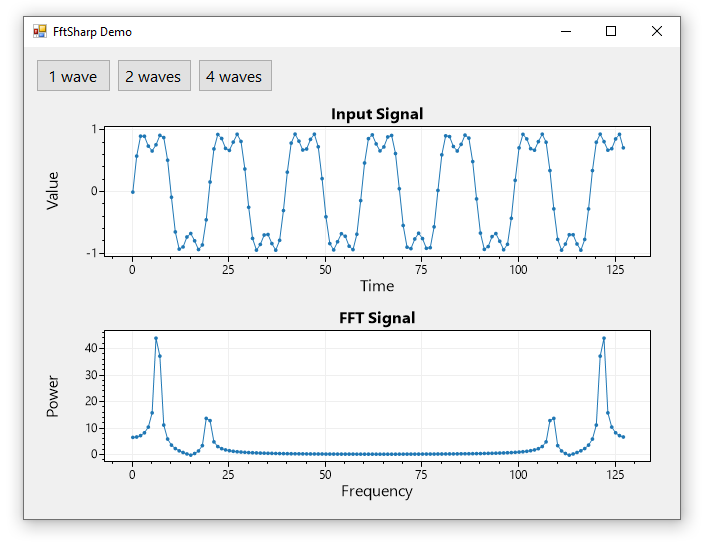
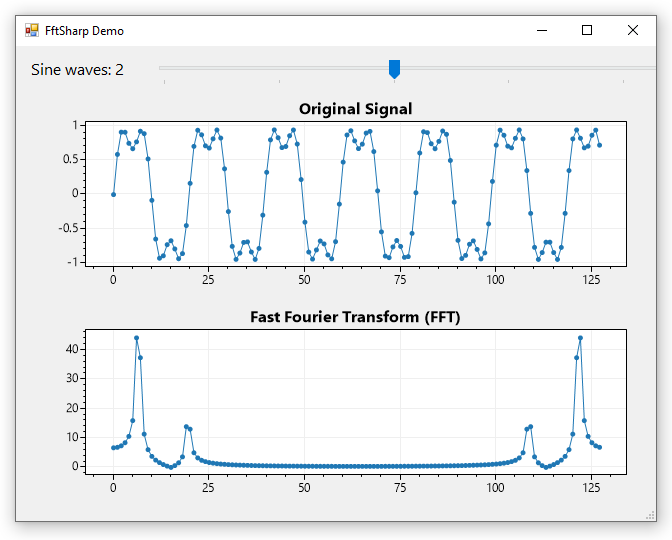
update demo

diff --git a/src/FftSharp.Demo/FormQuickstart.cs b/src/FftSharp.Demo/FormQuickstart.cs
@@ -10,30 +10,7 @@ namespace FftSharp.Demo
         public FormQuickstart()
         {
             InitializeComponent();
-
-            formsPlot1.plt.Title("Input Signal");
-            formsPlot1.plt.YLabel("Value");
-            formsPlot1.plt.XLabel("Time");
-
-            formsPlot2.plt.Title("FFT Signal");
-            formsPlot2.plt.YLabel("Power");
-            formsPlot2.plt.XLabel("Frequency");
-
             trackBar1_Scroll(null, null);
-        }
-
-        private void UpdateFFT(double[] input)
-        {
-            formsPlot1.plt.Clear();
-            formsPlot1.plt.PlotSignal(input, markerSize: 10);
-            formsPlot1.Render();
-
-            Complex[] fft = FftSharp.Transform.FFT(input);
-            double[] fftMag = FftSharp.Convert.GetMagnitude(fft);
-
-            formsPlot2.plt.Clear();
-            formsPlot2.plt.PlotSignal(fftMag, markerSize: 10);
-            formsPlot2.Render();
         }
 
         private void trackBar1_Scroll(object sender, EventArgs e)
@@ -41,6 +18,30 @@ namespace FftSharp.Demo
             label1.Text = $"Sine waves: {trackBar1.Value}";
             double[] values = FftSharp.SampleData.OddSines(128, trackBar1.Value);
             UpdateFFT(values);
+        }
+
+        private void UpdateFFT(double[] input)
+        {
+            // calculate FFT
+            double[] fft = FftSharp.Transform.FFTmagnitude(input, half: false);
+
+            // prepare array of indexes for plotting
+
+            // plot the input signal
+            formsPlot1.plt.Clear();
+            formsPlot1.plt.PlotScatter(
+                xs: ScottPlot.DataGen.Consecutive(input.Length),
+                ys: input);
+            formsPlot1.plt.Title("Original Signal");
+            formsPlot1.Render();
+
+            // plot the FFT
+            formsPlot2.plt.Clear();
+            formsPlot2.plt.PlotScatter(
+                xs: ScottPlot.DataGen.Consecutive(fft.Length),
+                ys: fft);
+            formsPlot2.plt.Title("Fast Fourier Transform (FFT)");
+            formsPlot2.Render();
         }
     }
 }

diff --git a/src/FftSharp.Demo/FormAudio.cs b/src/FftSharp.Demo/FormAudio.cs
@@ -29,28 +29,29 @@ namespace FftSharp.Demo
             // create noisy signal containing sine waves
             double[] data = new double[fftSize];
             data = FftSharp.SampleData.AddWhiteNoise(data, 1);
-            data = FftSharp.SampleData.AddSin(data, sampleRate, 500, 1);
-            data = FftSharp.SampleData.AddSin(data, sampleRate, 1200, .5);
-            data = FftSharp.SampleData.AddSin(data, sampleRate, 1500, 2);
+            data = FftSharp.SampleData.AddSin(data, sampleRate, 2_000, 1);
+            data = FftSharp.SampleData.AddSin(data, sampleRate, 10_000, 2);
+            data = FftSharp.SampleData.AddSin(data, sampleRate, 20_000, .5);
 
             // perform the FFT
-            Complex[] fft = FftSharp.Transform.FFT(data);
-            double[] fftPower = FftSharp.Convert.ToDecibelPower(fft);
-            
+            double[] fftAmp = FftSharp.Transform.FFTamplitude(data);
+
             // plot the signal
             formsPlot1.plt.Clear();
             formsPlot1.plt.PlotSignal(data, sampleRate / 1e3);
             formsPlot1.plt.Title("Input Signal");
-            formsPlot1.plt.YLabel("Value");
+            formsPlot1.plt.YLabel("Amplitude");
             formsPlot1.plt.XLabel("Time (milliseconds)");
+            formsPlot1.plt.AxisAuto(0);
             formsPlot1.Render();
 
             // plot the FFT
             formsPlot2.plt.Clear();
-            formsPlot2.plt.PlotSignal(fftPower, fftPeriod);
+            formsPlot2.plt.PlotSignal(fftAmp, fftPeriod);
             formsPlot2.plt.Title("FFT Signal");
-            formsPlot2.plt.YLabel("Power (dB)");
+            formsPlot2.plt.YLabel("Amplitude (dB)");
             formsPlot2.plt.XLabel("Frequency (Hz)");
+            formsPlot2.plt.AxisAuto(0);
             formsPlot2.Render();
         }
     }

diff --git a/src/FftSharp/Transform.cs b/src/FftSharp/Transform.cs
@@ -151,6 +151,18 @@ namespace FftSharp
         }
 
         /// <summary>
+        /// Calculte FFT and return the magnitude of the complex values
+        /// </summary>
+        /// <param name="input">real input</param>
+        /// <param name="half">return only the first half of the data (useful if result is mirrored)</param>
+        /// <returns>Magnitudes (not log transformed)</returns>
+        public static double[] FFTmagnitude(double[] input, bool half = true)
+        {
+            Complex[] fft = FFT(Complex(input));
+            return Magnitude(fft, half);
+        }
+
+        /// <summary>
         /// Calculte FFT magnitude and convert to dB
         /// </summary>
         /// <param name="multiplier">10 for amplitude, 20 for power</param>

diff --git a/src/FftSharp.Demo/FormQuickstart.Designer.cs b/src/FftSharp.Demo/FormQuickstart.Designer.cs
@@ -91,7 +91,7 @@
             this.label1.TabIndex = 3;
             this.label1.Text = "Sine waves: 5";
             // 
-            // Form1
+            // FormQuickstart
             // 
             this.AutoScaleDimensions = new System.Drawing.SizeF(6F, 13F);
             this.AutoScaleMode = System.Windows.Forms.AutoScaleMode.Font;
@@ -99,7 +99,7 @@
             this.Controls.Add(this.tableLayoutPanel1);
             this.Controls.Add(this.label1);
             this.Controls.Add(this.trackBar1);
-            this.Name = "Form1";
+            this.Name = "FormQuickstart";
             this.Text = "FftSharp Demo";
             this.tableLayoutPanel1.ResumeLayout(false);
             ((System.ComponentModel.ISupportInitialize)(this.trackBar1)).EndInit();
